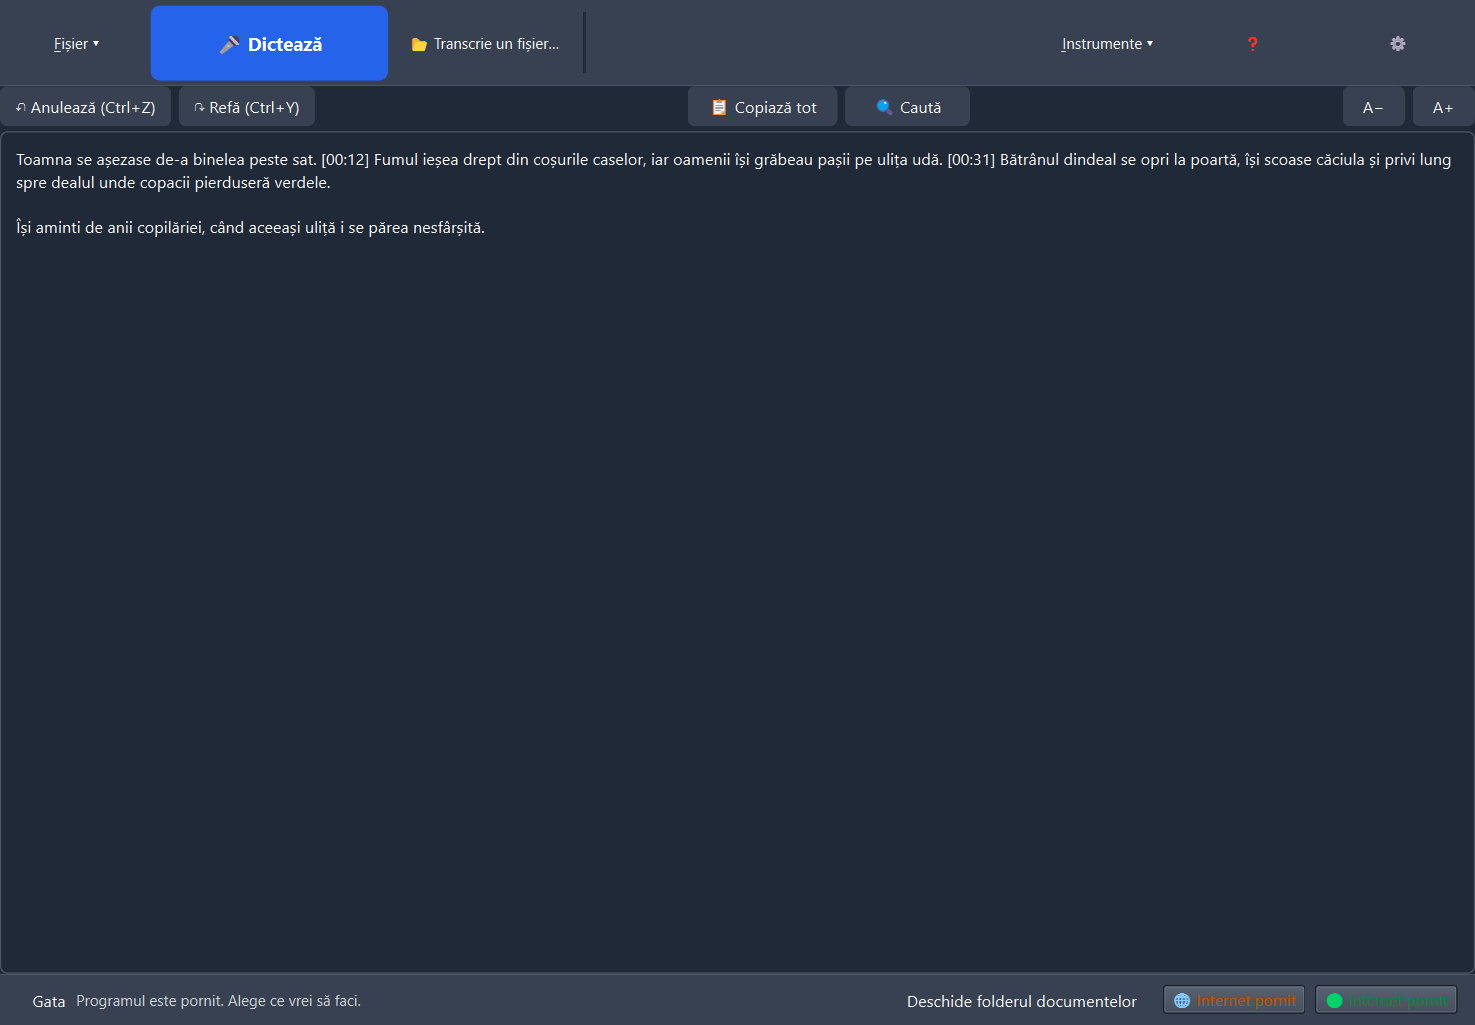
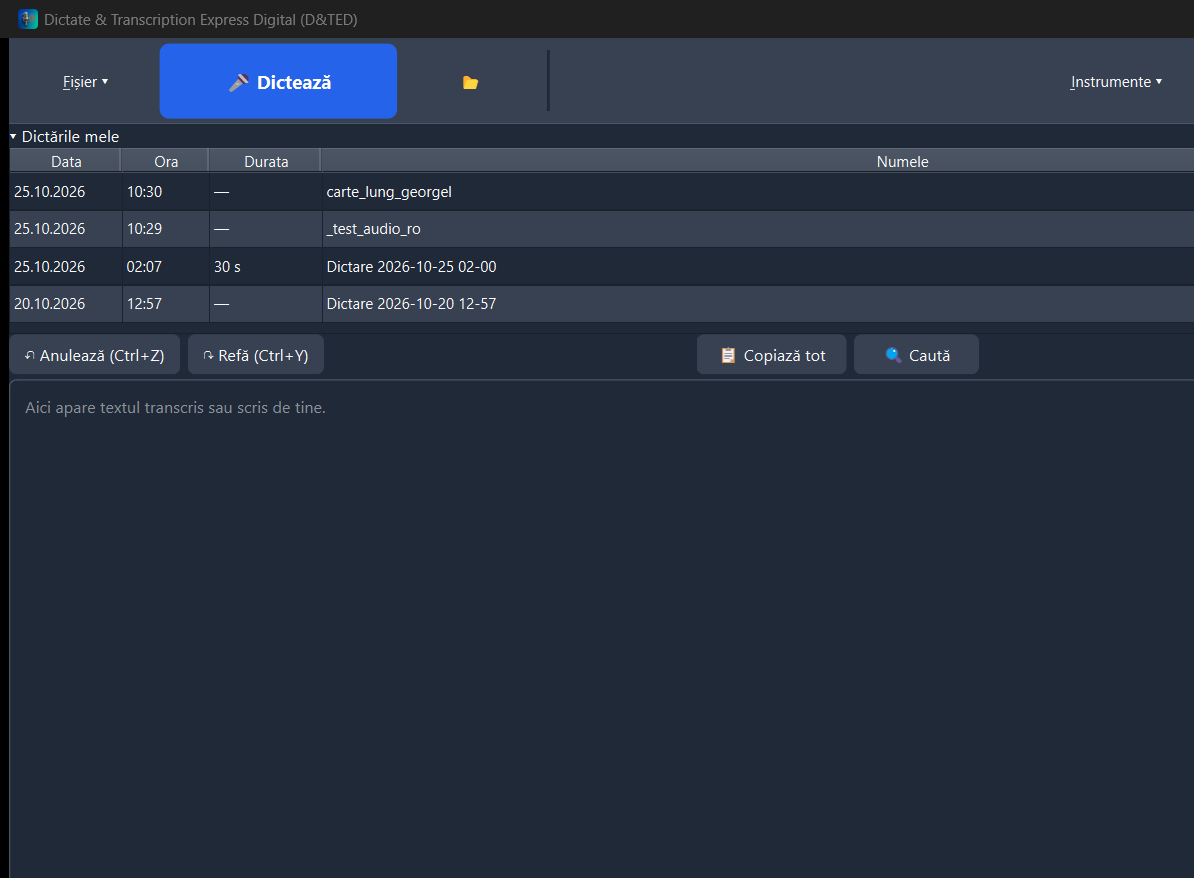
README: captura reala a interfetei v0.5.1 (PrintWindow) + descrieri pentru dictarea din transport

Changed region(s): [[0.0, 0.0, 1.0, 1.0], [0.9916, 0.4305, 1.0, 0.4613]]

diff --git a/README.md b/README.md
@@ -2,7 +2,7 @@
 
 <div align="center">
 
-<img src="docs/img/principal.png" alt="D&TED în acțiune: text dictat cu semne [mm:ss], gata de ascultat și corectat" width="880">
+<img src="docs/img/principal.png" alt="D&TED v0.5.1: lista dictărilor, editor mare, transport de redare jos" width="880">
 
 # 🎙 D&amp;ED · Dictare &amp; Transcriere Express Digital
 
@@ -34,10 +34,10 @@ irm https://raw.githubusercontent.com/Hermeneuticus-of-things/dted/main/dted-boo
 ## ✨ Funcții
 
 ### 🎤 Dictare pentru text de carte
-Textul apare **în timp ce vorbești**, pe bucăți mici — dictezi pagini întregi fără să aștepți. Semnele `[mm:ss]` (Ctrl+B) marchează locurile importante.
+Apasă butonul **roșu** (sau F5) și vorbește — textul apare **în timp ce vorbești**, direct în editorul mare. Semnele `[mm:ss]` (Ctrl+B) marchează locurile importante. Fără pagini separate: o singură fereastră de lucru, ca la Express Dictate.
 
 ### ▶ Ascultă și corectează
-Pune cursorul lângă un semn și apasă **Ctrl+R**: programul redă **exact bucata respectivă** din înregistrare, ca să auzi ce ai spus și să corectezi sigur. Pauză și oprire din taste rapide, poziția curentă în bara de jos.
+Pune cursorul lângă un semn și apasă **F9** (sau Ctrl+R): transportul de jos redă **exact bucata respectivă** — Play verde, Stop albastru, derulare, poziție `01:23 / 05:40` și volum.
 
 <div align="center">
 <img src="docs/img/vumetru-interfat.png" alt="Ecranul de dictare: vumetru în dB integrat, semne [mm:ss], buton de ascultare" width="840">
